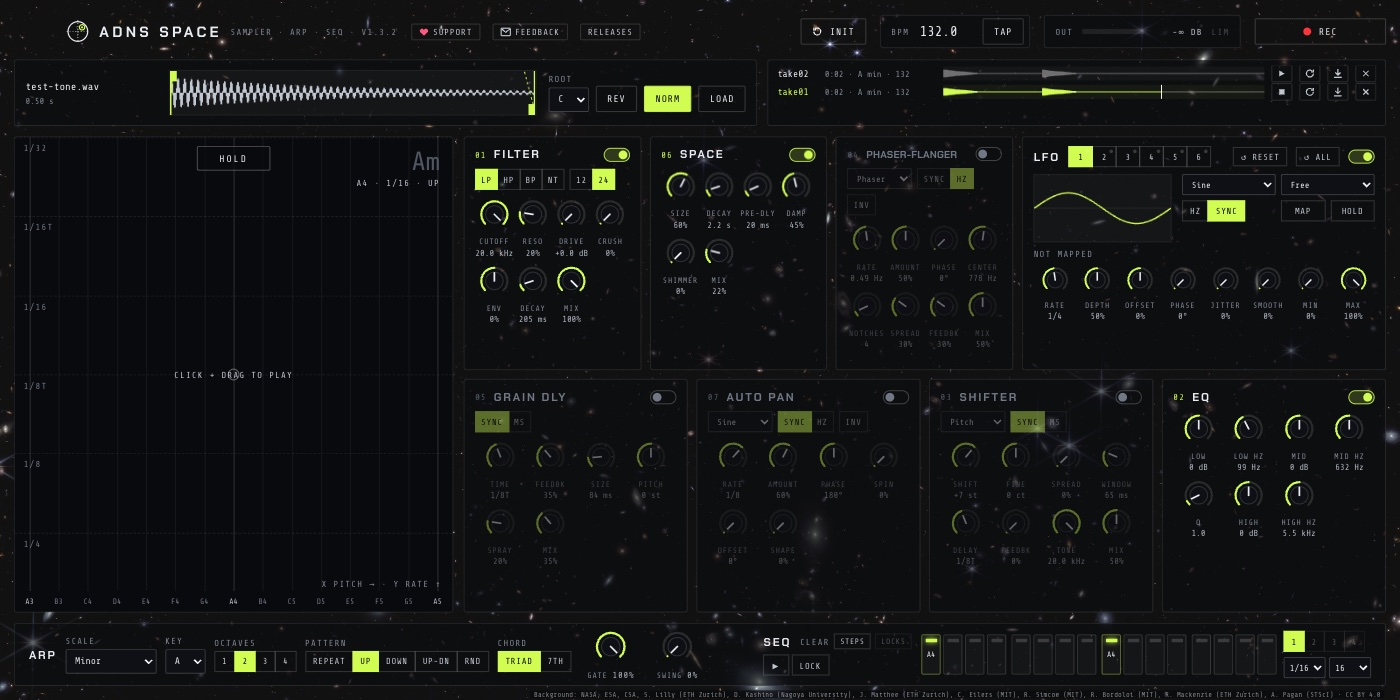
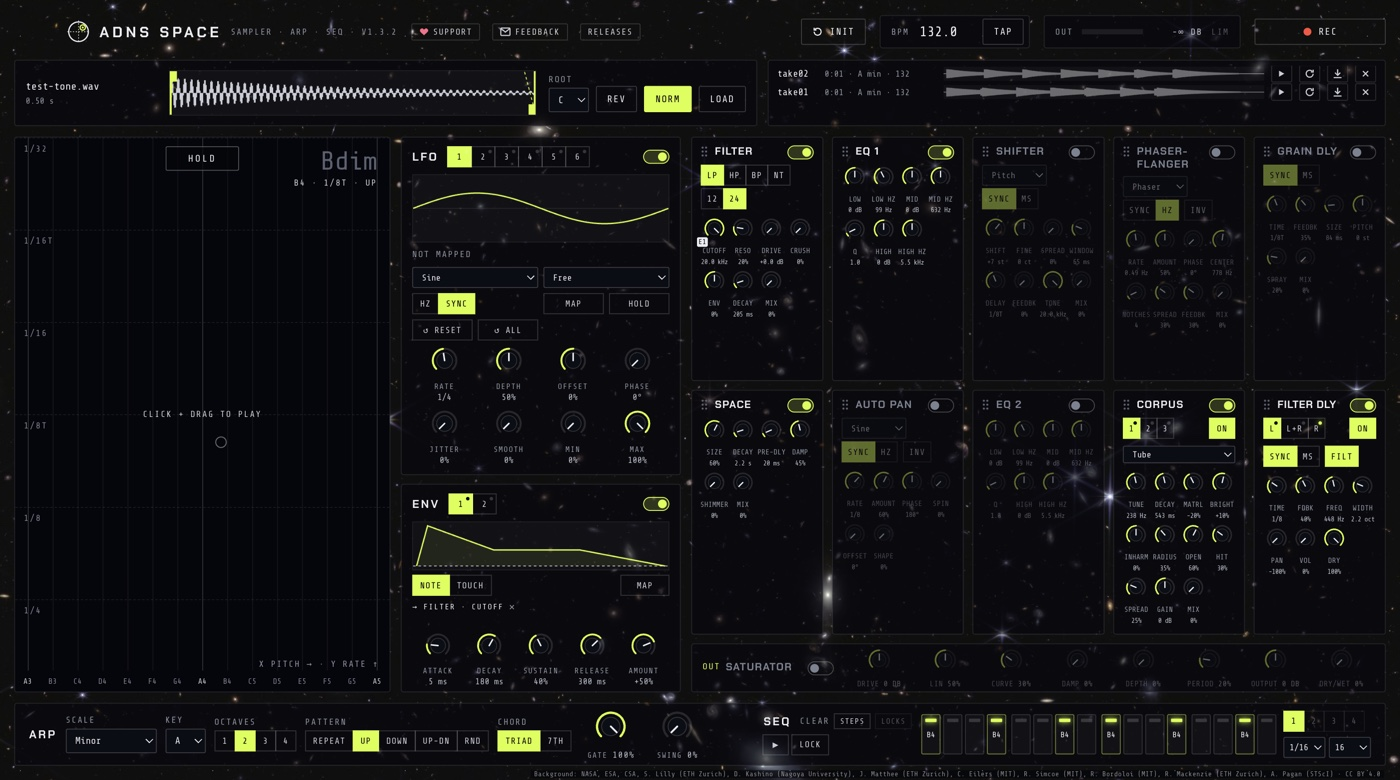
Describe the new layout for the next release: ten effects in any order, a saturator, envelopes, and a new screenshot.

diff --git a/index.html b/index.html
@@ -10,7 +10,7 @@
   <meta charset="utf-8" />
   <meta name="viewport" content="width=device-width, initial-scale=1" />
   <title>ADNS SPACE</title>
-  <meta name="description" content="A one-shot sampler you play on an X-Y pad. Arpeggiator, seven effects, six LFOs, a 64-step sequencer with parameter locks and WAV recording. Free for Mac." />
+  <meta name="description" content="A one-shot sampler you play on an X-Y pad. Arpeggiator, ten effects in any order, a saturator, six LFOs, two envelopes, a 64-step sequencer with parameter locks and WAV recording. Free for Mac." />
   <meta property="og:title" content="ADNS SPACE" />
   <meta property="og:description" content="A one-shot sampler you play on an X-Y pad. Free for Mac." />
   <meta property="og:image" content="https://antoniskol.github.io/adns-space/assets/screenshot.jpg" />
@@ -123,14 +123,15 @@
     </div>
 
     <figure>
-      <img src="assets/screenshot.jpg" alt="ADNS SPACE: the X-Y pad on the left, the effects rack and LFOs on the right, the arpeggiator and 64-step sequencer along the bottom." width="1400" height="700" />
-      <figcaption>The X-Y pad, the effects rack with LFOs, and the arp and sequencer bar.</figcaption>
+      <img src="assets/screenshot.jpg" alt="ADNS SPACE: the X-Y pad on the left, then the LFOs and envelopes, then the effect strips with the saturator below them, and the arpeggiator and 64-step sequencer along the bottom." width="1400" height="780" />
+      <figcaption>The X-Y pad, the LFOs and envelopes, the effect strips and saturator, and the arp and sequencer bar.</figcaption>
     </figure>
 
     <div class="grid">
       <div class="card"><h3 class="mono">X-Y pad</h3><p>Pitch on one axis, arp speed on the other. Hold keeps it playing when you let go.</p></div>
-      <div class="card"><h3 class="mono">Seven effects</h3><p>Filter, EQ, shifter, phaser-flanger, grain delay, reverb and auto pan.</p></div>
+      <div class="card"><h3 class="mono">Ten effects</h3><p>Filter, two EQs, shifter, phaser-flanger, grain delay, reverb, auto pan, Corpus resonators and filter delay. Drag them into any order. A saturator comes last.</p></div>
       <div class="card"><h3 class="mono">Six LFOs</h3><p>Map any knob, or the pad itself, and let it move on its own.</p></div>
+      <div class="card"><h3 class="mono">Two envelopes</h3><p>Move up to four knobs on every note or every pad touch.</p></div>
       <div class="card"><h3 class="mono">64-step sequencer</h3><p>A note on every step, and parameter locks: any effect knob, or an effect's on/off, can change on any step.</p></div>
       <div class="card"><h3 class="mono">Record &amp; export</h3><p>Every take is saved with its moves. Export 24-bit WAV or re-render with a new sound.</p></div>
     </div>

diff --git a/README.md b/README.md
@@ -2,7 +2,7 @@
 
 ADNS SPACE is a one-shot sampler you play on an X-Y pad. Load a short sound, then click and drag on the pad. Left to right picks the note in your chosen key and scale, bottom to top picks the speed, and the built-in arpeggiator plays your sound in time.
 
-Shape it with seven effects: filter, EQ, shifter, phaser-flanger, grain delay, reverb and auto pan. Six LFOs can move any knob, or the pad itself. A 64-step sequencer plays its own melodies, with parameter locks: any effect knob, or an effect's on/off, can have its own setting on each step. Record everything you play and export it as a WAV file.
+Shape it with ten effects you can drag into any order: filter, two EQs, shifter, phaser-flanger, grain delay, reverb, auto pan, Corpus resonators and a filter delay, with a saturator always last. Six LFOs can move any knob, or the pad itself, and two envelopes move knobs on every note or pad touch. A 64-step sequencer plays its own melodies, with parameter locks: any effect knob, or an effect's on/off, can have its own setting on each step. Record everything you play and export it as a WAV file.
 
 ## Download
 
